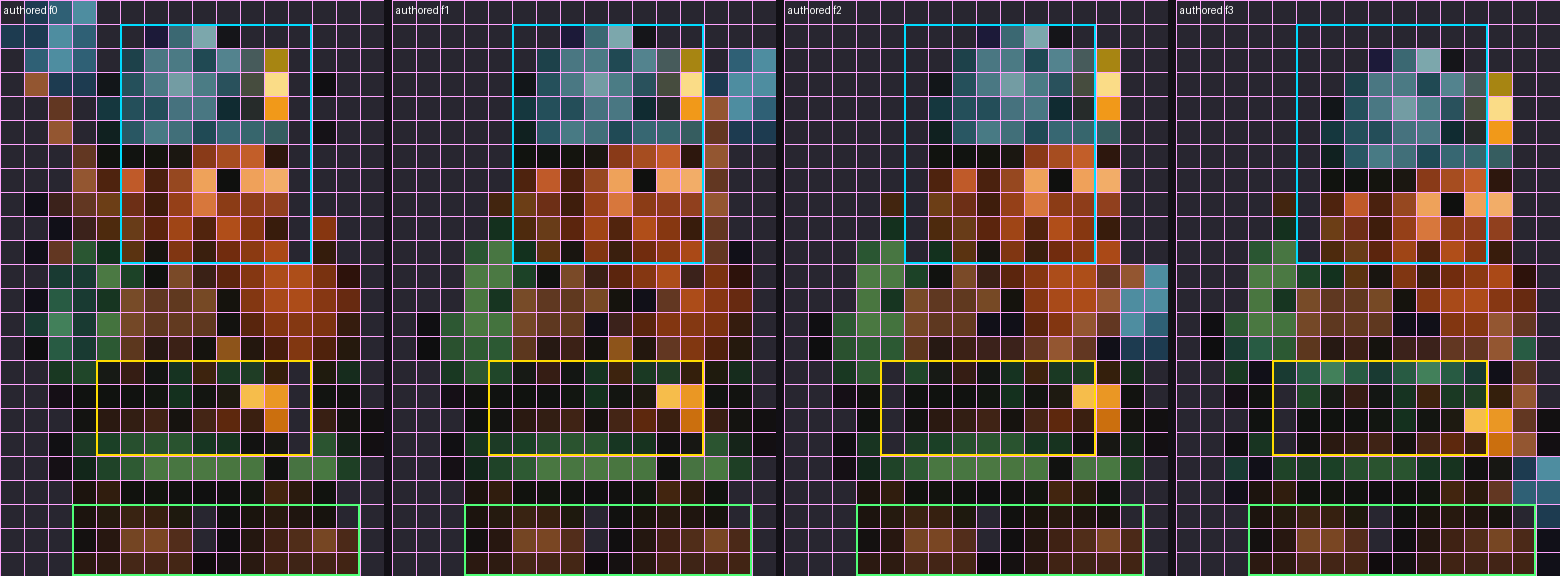
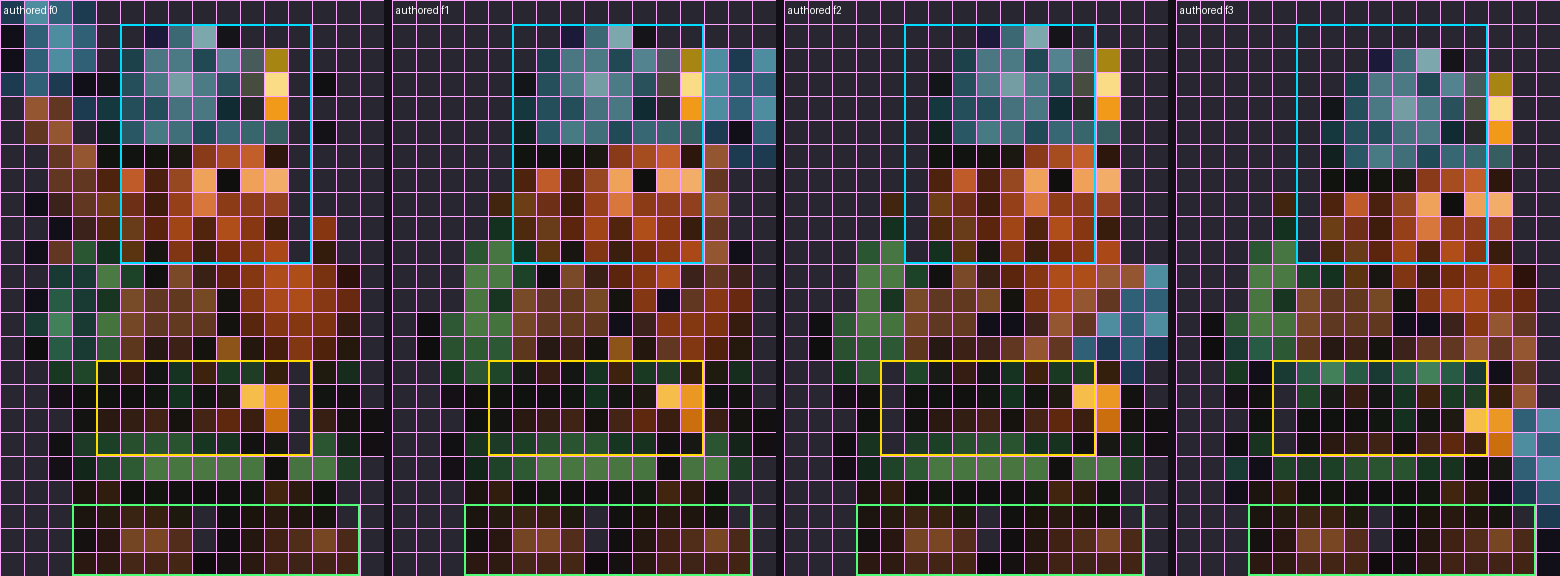
Bulk up Cell-authored pickaxe head for readable tool mass
Enlarge the swing tool head to ~5×4 and thicken the handle while staying
outside Identity Lock rects; keep art-direction strike timing.

diff --git a/prototype/swing-cell-author/author.py b/prototype/swing-cell-author/author.py
@@ -148,19 +148,30 @@ def erase_idle_pickaxe(frame: list[list[Cell]], *, helmet_off: tuple[int, int], 
 
 
 def _head_blob(cx: int, cy: int) -> list[tuple[int, int, Cell]]:
-    """Heavier 3×3-ish pickaxe head for readable mass."""
+    """Chunky ~5×4 pickaxe head — compact but heavy vs the miner torso."""
     return [
+        # top spike / peen
+        (cx, cy - 2, HEAD_LIT),
+        (cx + 1, cy - 2, HEAD),
         (cx - 1, cy - 1, HEAD_DARK),
         (cx, cy - 1, HEAD_LIT),
         (cx + 1, cy - 1, HEAD),
+        (cx + 2, cy - 1, HEAD_DARK),
+        # mass row
+        (cx - 2, cy, OUTLINE),
         (cx - 1, cy, HEAD),
         (cx, cy, HEAD_LIT),
         (cx + 1, cy, HEAD),
-        (cx - 1, cy + 1, OUTLINE),
+        (cx + 2, cy, HEAD_LIT),
+        # lower mass / blade
+        (cx - 2, cy + 1, HEAD_DARK),
+        (cx - 1, cy + 1, HEAD),
         (cx, cy + 1, HEAD_DARK),
-        (cx + 1, cy + 1, HEAD_DARK),
-        (cx, cy - 2, HEAD),
-        (cx + 1, cy - 2, HEAD_LIT),
+        (cx + 1, cy + 1, OUTLINE),
+        (cx + 2, cy + 1, OUTLINE),
+        (cx - 1, cy + 2, OUTLINE),
+        (cx, cy + 2, HEAD_DARK),
+        (cx + 1, cy + 2, HEAD_DARK),
     ]
 
 
@@ -247,23 +258,28 @@ def author_swing_frames(idle: list[list[Cell]]) -> list[list[list[Cell]]]:
         f0,
         [
             *_lean_mass(direction="back", helmet_off=h0, belt_off=b0),
-            # tool high / behind — tall wind-up
-            (1, 0, HEAD_DARK),
-            (2, 0, HEAD_LIT),
-            (3, 0, HEAD),
-            (0, 1, HEAD_DARK),
+            # bulky head high/behind — uses left free columns + row 0
             *_head_blob(2, 2),
-            (1, 3, HANDLE_MID),
+            (0, 0, HEAD_DARK),
+            (1, 0, HEAD_LIT),
+            (2, 0, HEAD),
+            (3, 0, HEAD_DARK),
+            (0, 1, OUTLINE),
+            (1, 1, HEAD),
+            # thicker handle shaft
+            (1, 4, HANDLE_MID),
             (2, 4, HANDLE),
+            (1, 5, HANDLE),
             (2, 5, HANDLE_MID),
-            (3, 6, HANDLE),
-            (3, 7, HANDLE_MID),
-            (3, 8, GLOVE_LIT),
+            (2, 6, HANDLE),
+            (3, 6, HANDLE_MID),
+            (2, 7, HANDLE),
+            (3, 7, HANDLE),
             (2, 8, GLOVE),
-            (2, 9, OUTLINE),
+            (3, 8, GLOVE_LIT),
             (1, 8, OUTLINE),
+            (2, 9, OUTLINE),
             (3, 9, GLOVE),
-            # rear elbow / shoulder pull
             (1, 10, OUTLINE),
             (2, 10, GLOVE_LIT),
         ],
@@ -278,27 +294,32 @@ def author_swing_frames(idle: list[list[Cell]]) -> list[list[list[Cell]]]:
     paint(
         f1,
         [
-            # long horizontal leverage — head ahead of face, handle stretches back
-            *_head_blob(14, 4),
-            (15, 3, HEAD_LIT),
-            (15, 4, HEAD),
-            (15, 5, HEAD_DARK),
-            (13, 4, HANDLE_MID),
-            (13, 5, HANDLE),
+            # head sits in right free columns; spill into unlocked torso edge
+            *_head_blob(13, 4),
+            (15, 2, HEAD_LIT),
+            (15, 3, HEAD),
+            (15, 4, HEAD_LIT),
+            (15, 5, HEAD),
+            (15, 6, HEAD_DARK),
+            (14, 2, HEAD_DARK),
+            # thick handle down the x=13 corridor
             (13, 6, HANDLE_MID),
+            (12, 6, HANDLE),
             (13, 7, HANDLE),
+            (12, 7, HANDLE_MID),
             (13, 8, HANDLE_MID),
             (13, 9, HANDLE),
-            (13, 10, GLOVE_LIT),
+            (13, 10, HANDLE_MID),
+            (13, 11, GLOVE_LIT),
             (14, 10, OUTLINE),
+            (14, 11, GLOVE),
             (12, 11, GLOVE),
-            (11, 12, GLOVE_LIT),
-            (10, 12, OUTLINE),
-            (9, 13, GLOVE),
-            (8, 13, OUTLINE),
-            # trailing motion streak (1 cell) behind the head
-            (12, 3, HEAD_DARK),
+            (12, 12, GLOVE_LIT),
+            (11, 12, OUTLINE),
+            (10, 13, GLOVE),
+            (9, 13, OUTLINE),
             (11, 14, HANDLE),
+            (12, 3, HEAD_DARK),  # short motion mass behind head
         ],
         helmet_off=h1,
         belt_off=b1,
@@ -312,23 +333,26 @@ def author_swing_frames(idle: list[list[Cell]]) -> list[list[list[Cell]]]:
         f2,
         [
             *_lean_mass(direction="forward", helmet_off=h2, belt_off=b2),
-            *_head_blob(14, 13),
-            (15, 12, HEAD_LIT),
-            (15, 13, HEAD),
+            *_head_blob(13, 13),
+            (15, 11, HEAD_LIT),
+            (15, 12, HEAD),
+            (15, 13, HEAD_LIT),
             (15, 14, HEAD_DARK),
-            (13, 12, HANDLE_MID),
-            (13, 13, HANDLE),
-            (12, 13, HANDLE_MID),
-            (12, 14, HANDLE),
-            (11, 14, HANDLE_MID),
-            (10, 14, GLOVE_LIT),
-            (9, 14, GLOVE),
+            (14, 14, HEAD),
+            (13, 11, HANDLE_MID),
+            (13, 12, HANDLE),
+            (12, 12, HANDLE_MID),
+            (12, 13, HANDLE),
+            (11, 13, HANDLE_MID),
+            (11, 14, HANDLE),
+            (10, 14, HANDLE_MID),
+            (9, 14, GLOVE_LIT),
+            (8, 14, GLOVE),
             (9, 13, OUTLINE),
             (8, 13, OUTLINE),
-            (8, 14, GLOVE),
-            # follow-through beard / arm mass outside face lock
+            (10, 13, GLOVE),
             (14, 11, BEARD),
-            (13, 11, BEARD_DARK),
+            (13, 10, BEARD_DARK),  # skipped if still in face lock after +1x helmet
         ],
         helmet_off=h2,
         belt_off=b2,
@@ -342,31 +366,36 @@ def author_swing_frames(idle: list[list[Cell]]) -> list[list[list[Cell]]]:
         f3,
         [
             *_lean_mass(direction="squash", helmet_off=h3, belt_off=b3),
-            # chunky contact wedge at ground, ahead of boots (x=15)
+            # Chunky strike head in free cells: x=14–15 + y<=20.
+            # Boots lock is x=3..14,y=21..23 — only x=15 can occupy those rows.
+            (13, 17, HEAD_DARK),
+            (14, 17, HEAD),
+            (15, 17, HEAD_LIT),
+            (13, 18, HEAD),
+            (14, 18, HEAD_LIT),
+            (15, 18, HEAD),
+            (13, 19, HEAD_DARK),
+            (14, 19, HEAD),
             (15, 19, HEAD_LIT),
+            (13, 20, OUTLINE),
+            (14, 20, HEAD_DARK),
             (15, 20, HEAD),
             (15, 21, HEAD_DARK),
             (15, 22, OUTLINE),
             (15, 23, OUTLINE),
-            (14, 20, HEAD),
-            (14, 19, HEAD_DARK),
-            # handle braced from strike up the right column (outside belt after +1)
-            (13, 19, HANDLE_MID),
-            (13, 18, HANDLE),  # may be inside shifted belt — skipped if locked
-            (14, 18, HANDLE_MID),
-            (14, 17, HANDLE),
+            # braced handle up the right corridor (belt shifted to x=5..13,y=16..19)
             (14, 16, HANDLE_MID),
             (14, 15, HANDLE),
-            (13, 14, HANDLE_MID),
-            (12, 14, HANDLE),
-            (11, 14, GLOVE_LIT),
-            (10, 14, GLOVE),
+            (14, 14, HANDLE_MID),
+            (13, 14, HANDLE),
+            (12, 14, HANDLE_MID),
+            (11, 14, HANDLE),
+            (10, 14, GLOVE_LIT),
+            (9, 14, GLOVE),
             (10, 13, OUTLINE),
             (9, 13, OUTLINE),
-            (9, 14, GLOVE),
-            # impact "weight" in free cells just above boots
+            (11, 13, GLOVE),
             (2, 20, OUTLINE),
-            (13, 20, HANDLE),
         ],
         helmet_off=h3,
         belt_off=b3,

diff --git a/prototype/swing-cell-author/NOTES.md b/prototype/swing-cell-author/NOTES.md
@@ -63,3 +63,9 @@ permitted Identity Lock offsets + art-direction timing:
 | 3 | squash `(+1,+1)` | tip ahead of planted boots | 180 |
 
 Re-run still Identity Lock PASS; body mass sells weight, not just tool teleport.
+
+## Tool mass pass
+
+Bumped pickaxe head from ~3×3 to ~5×4 chunky mass; thicker handle.
+Strike head parked in free cells (x=14–15 / y≤20) so boots lock does not clip it.
+Still Identity Lock PASS.
